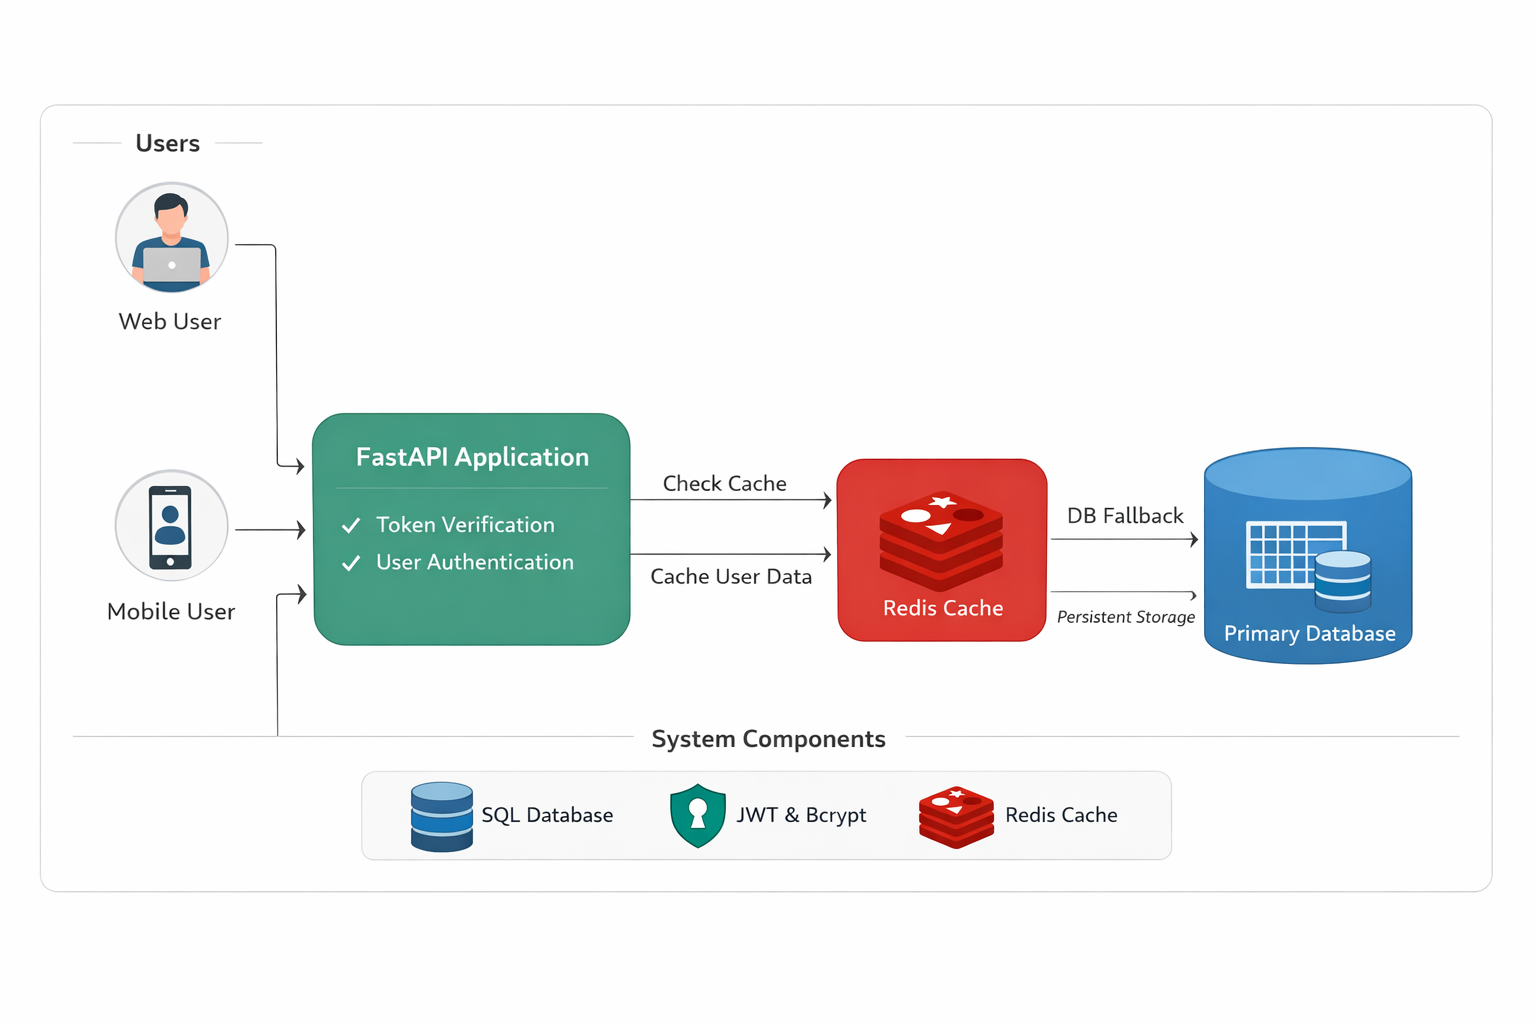
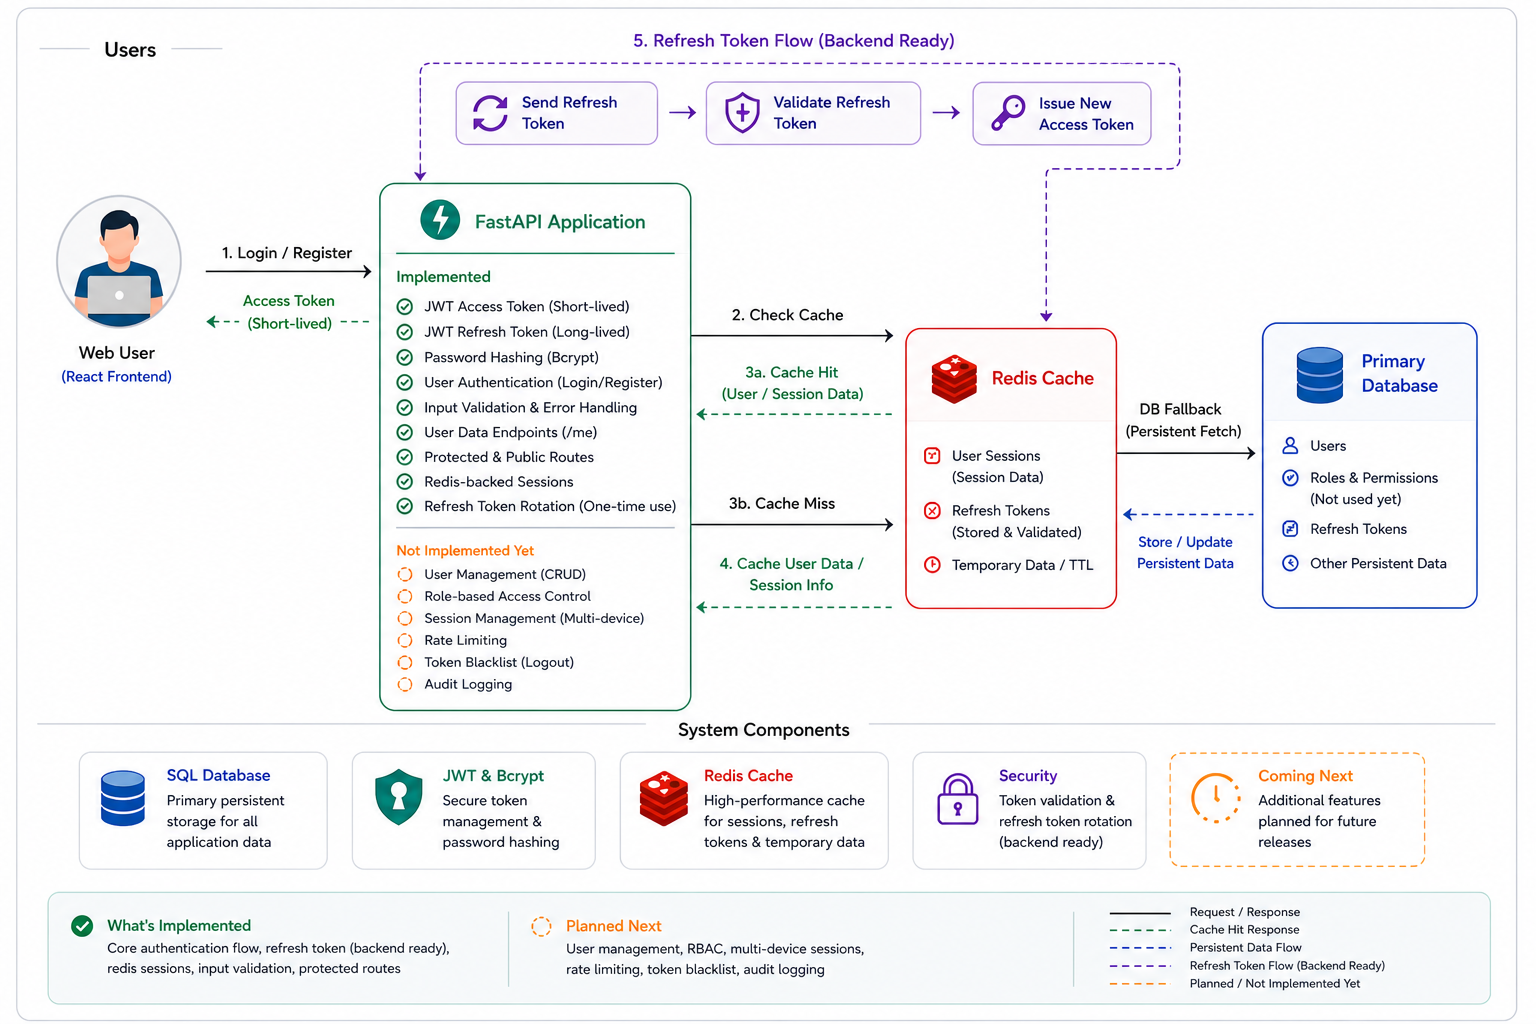
Added architectural design diagram

diff --git a/README.md b/README.md
@@ -68,7 +68,7 @@ Client (React) → FastAPI → Redis (cache) → PostgreSQL
 
 Shows interactions between FastAPI, Redis, and PostgreSQL with JWT-based authentication.
 
-![Architectural Design](diagrams/architectural_design.png)
+![Architectural Design](architectural_design.png)
 
 ---
 
